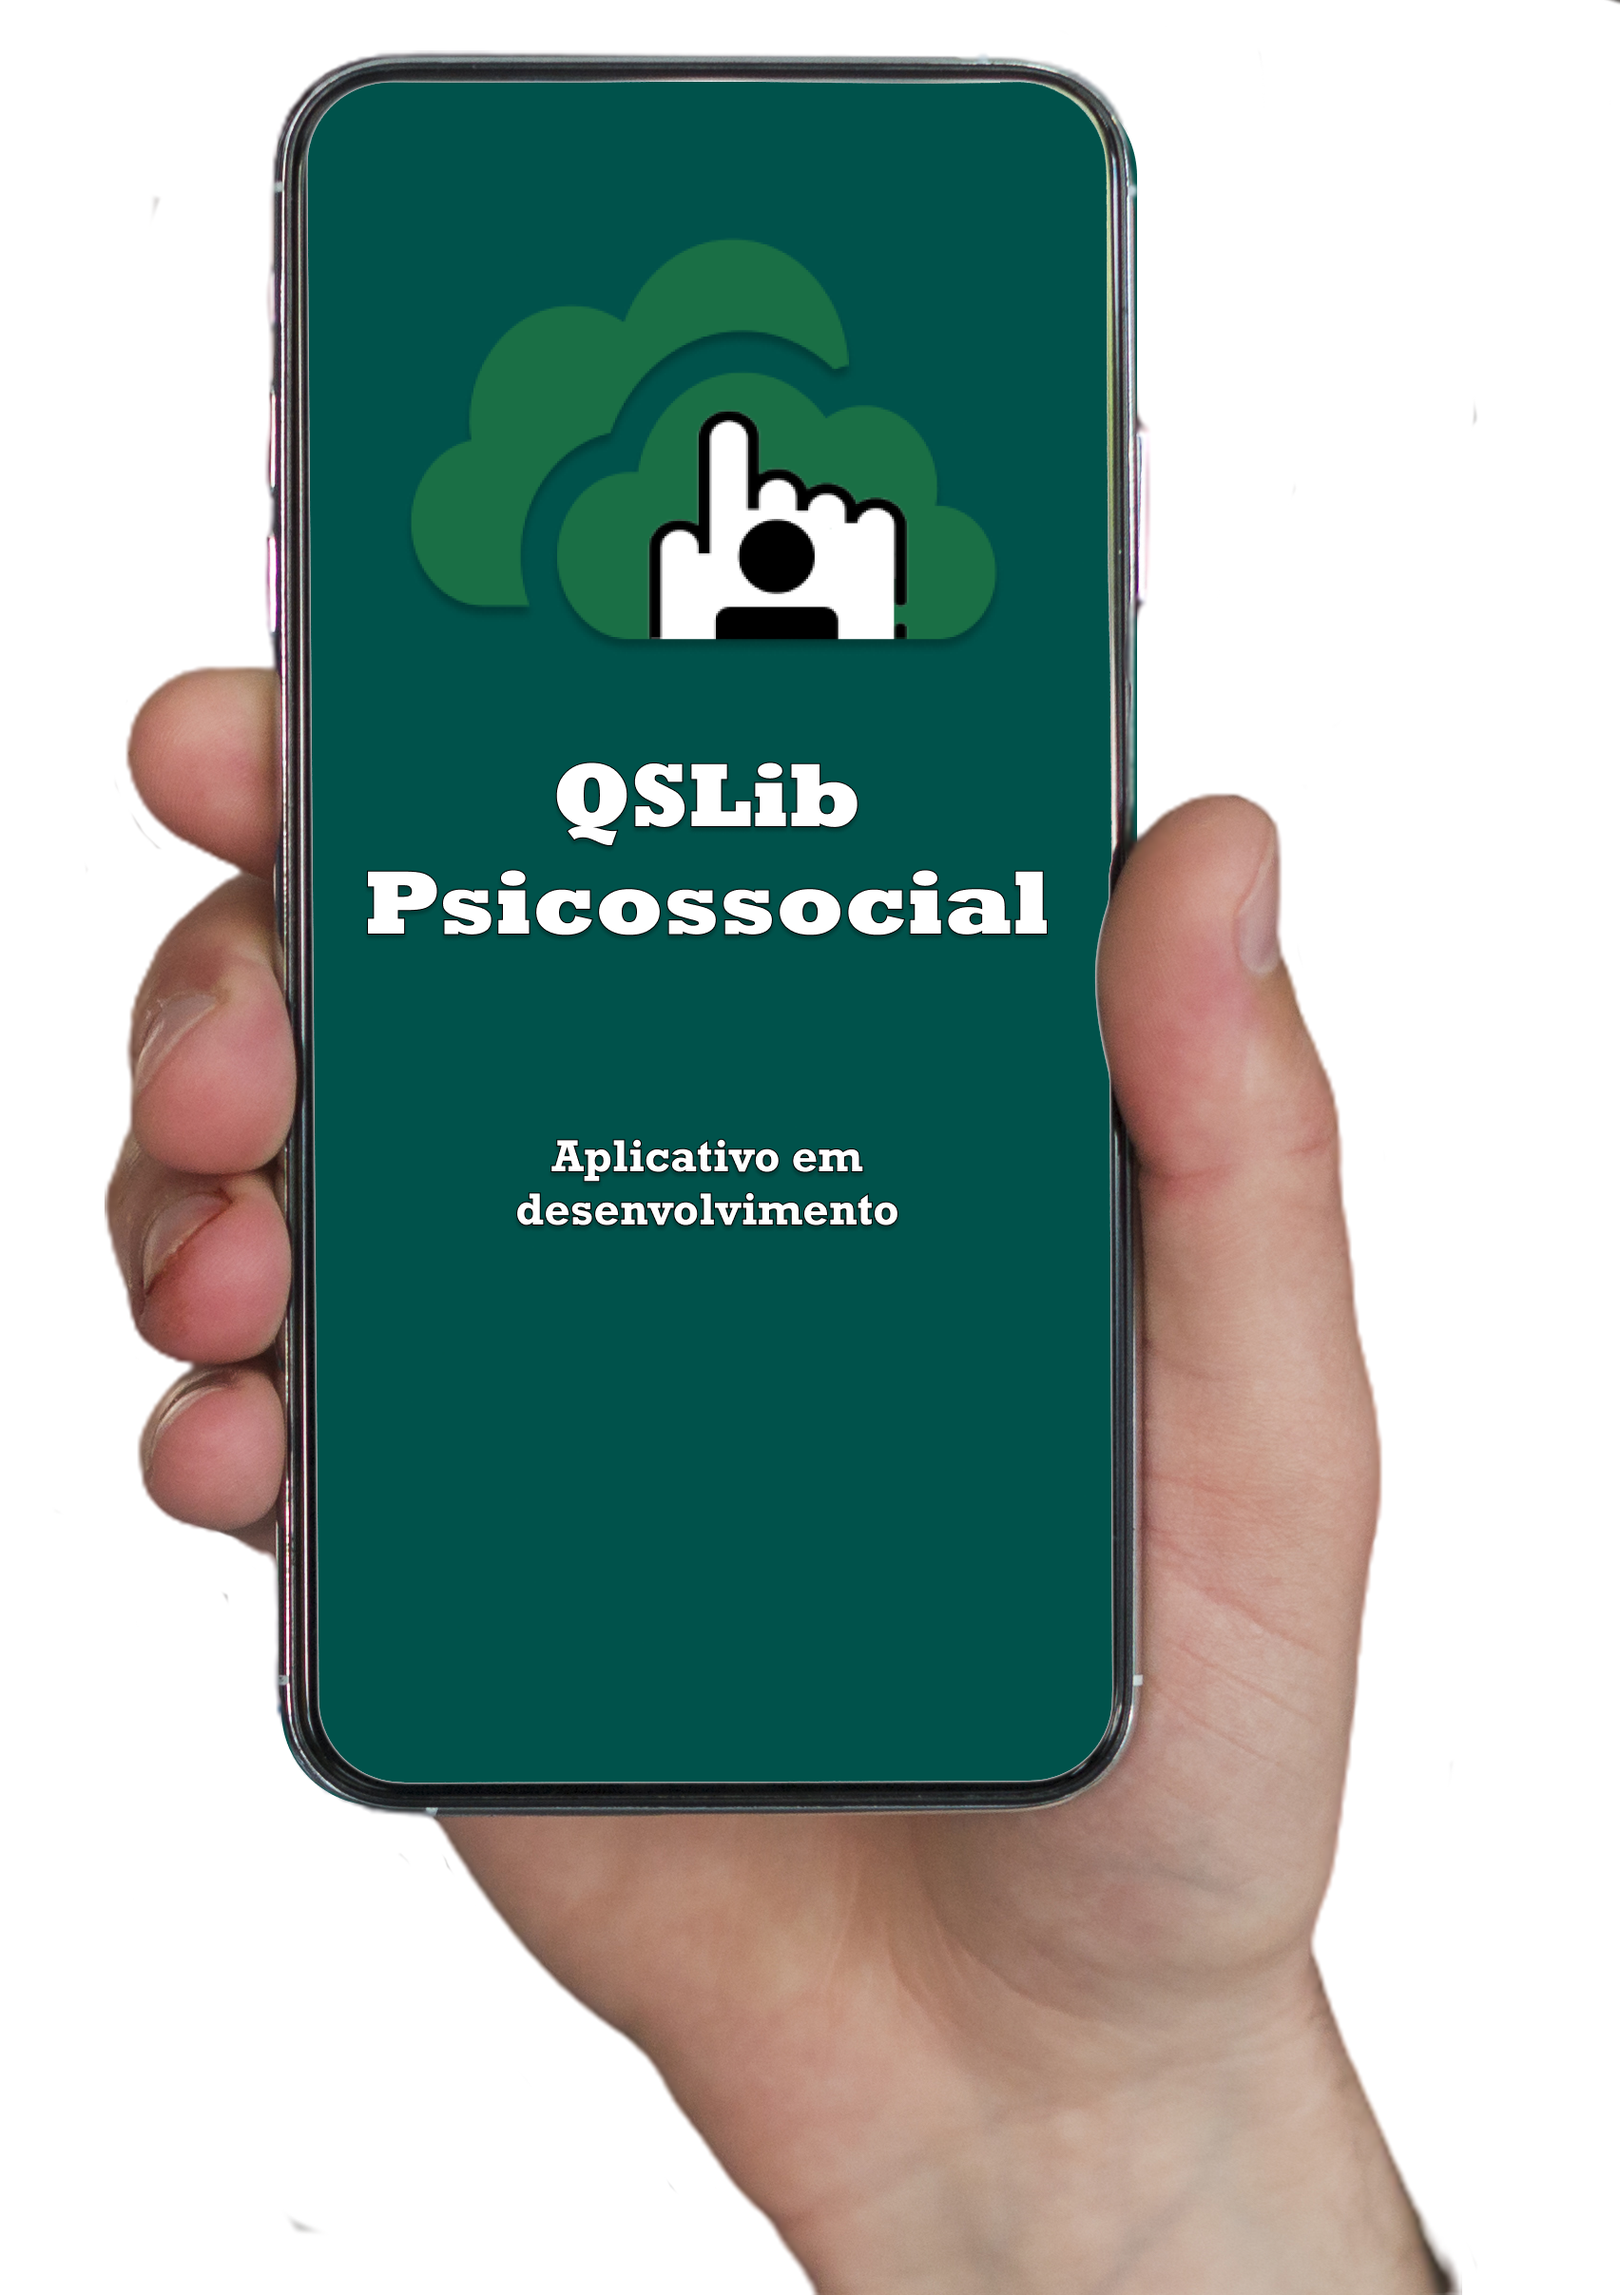
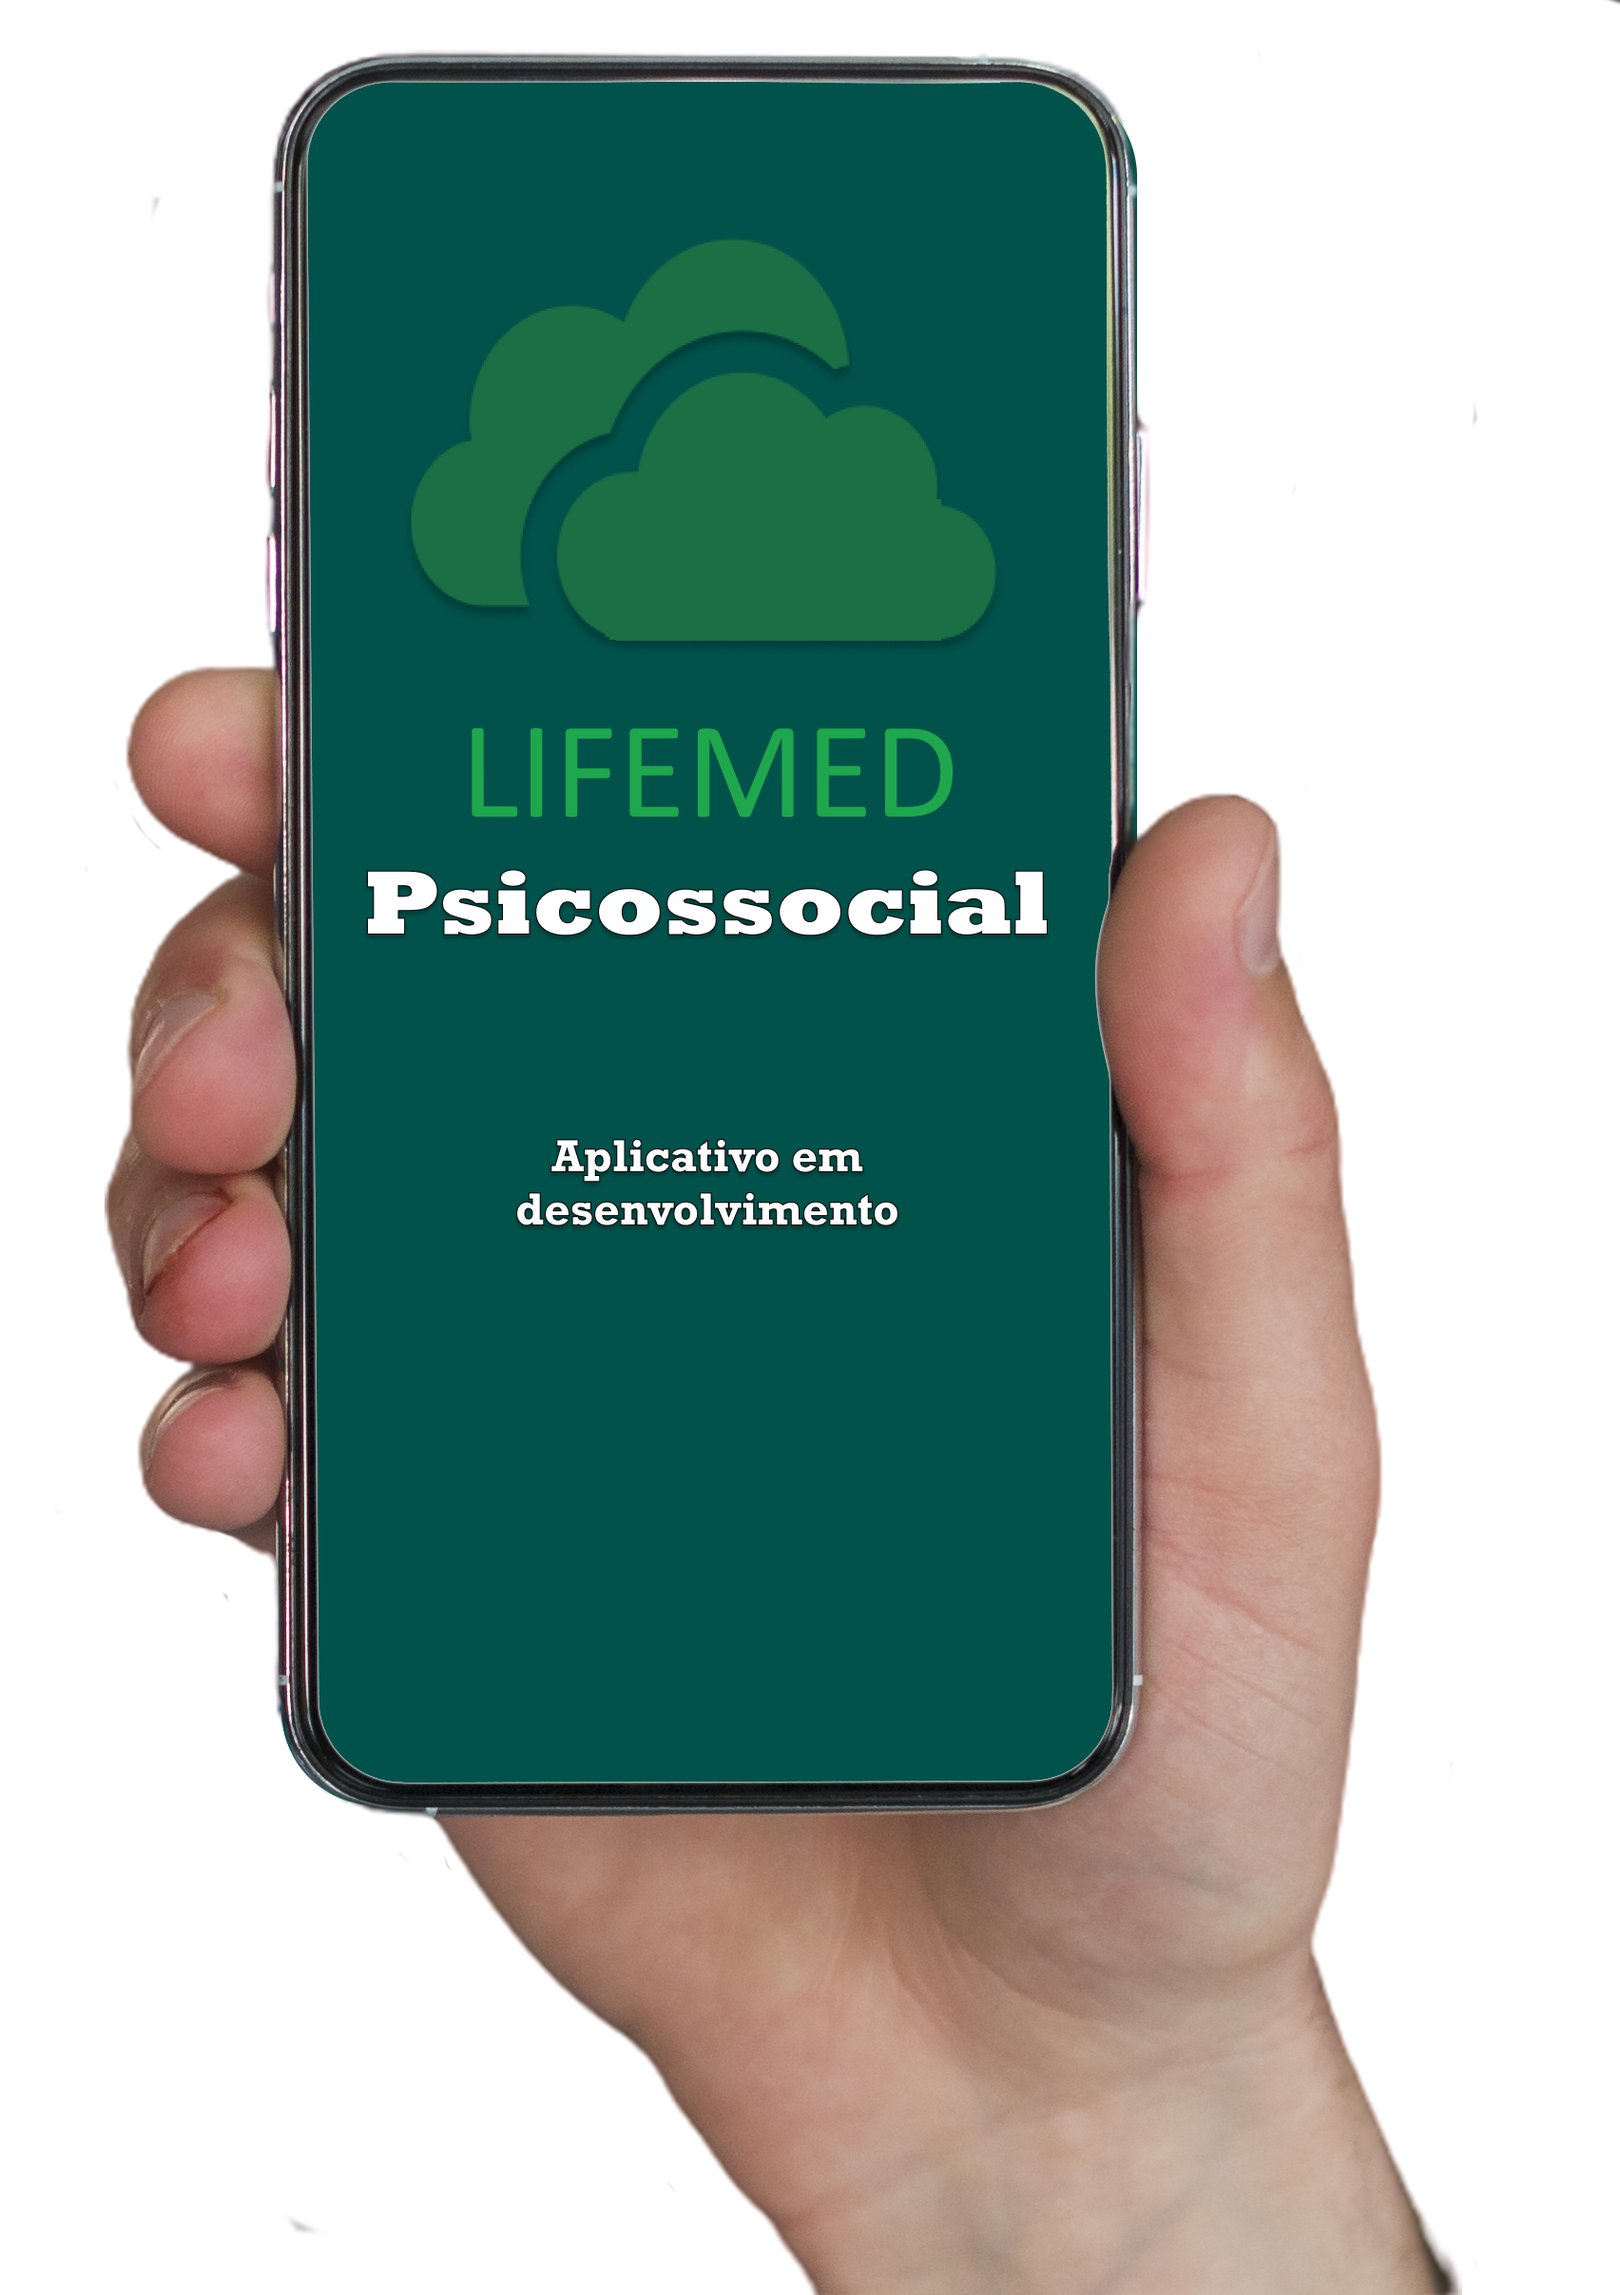
A THOUGHT

Changed region(s): [[0.2799, 0.3107, 0.591, 0.3728], [0.3732, 0.1553, 0.5599, 0.2796]]

diff --git a/public/index.html b/public/index.html
@@ -26,7 +26,7 @@
       work correctly both with client-side routing and a non-root public URL.
       Learn how to configure a non-root public URL by running `npm run build`.
     -->
-    <title>QualitySeg | QSLib Psicossocial</title>
+    <title>Lifemed | Lifemed Psicossocial</title>
   </head>
   <body>
     <noscript>You need to enable JavaScript to run this app.</noscript>
